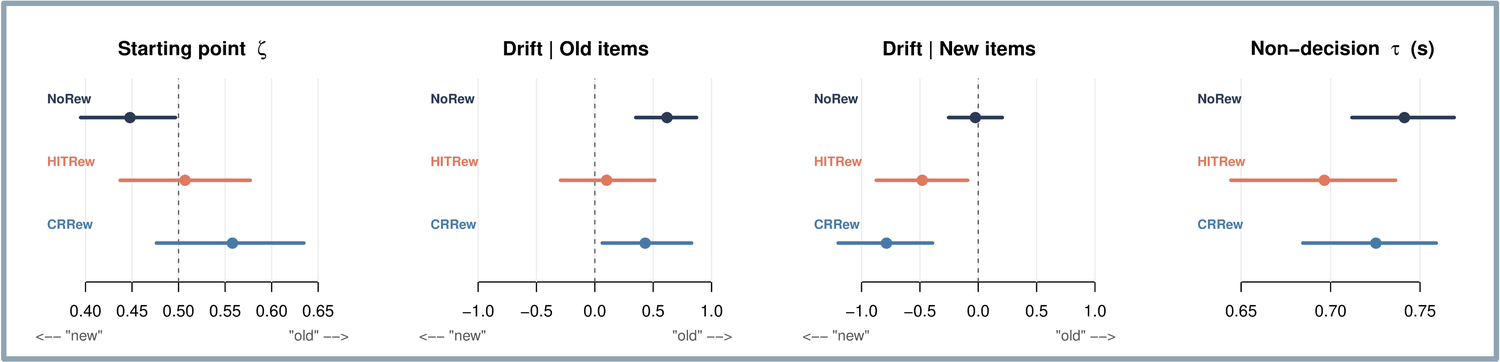
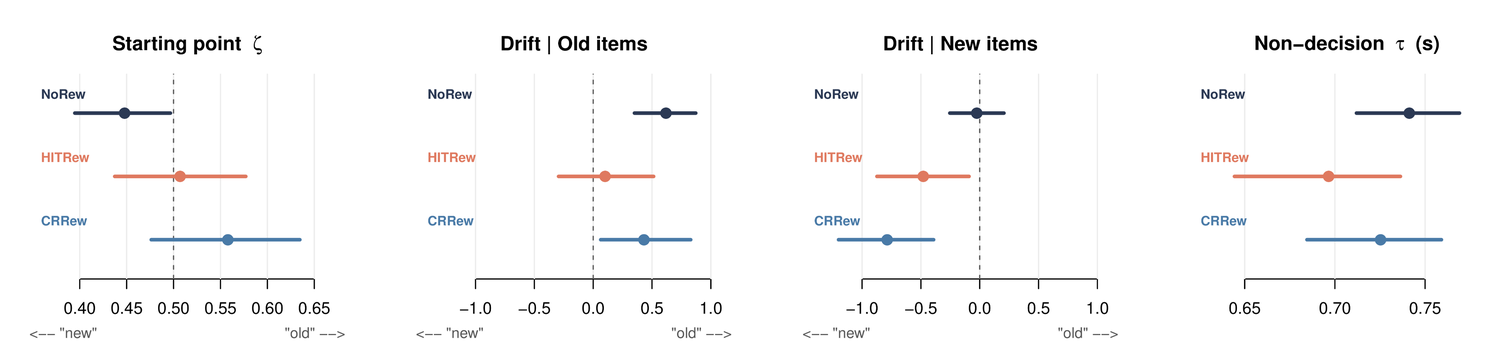
Reorder presentations, update DDM figure, link OSF materials
Lists conference presentations in reverse chronological order; replaces the
decision-parameter figure with the updated source version; adds the OSF
materials link to the RL-SSM project page; refreshes the CV.

diff --git a/research.html b/research.html
@@ -119,19 +119,19 @@
     <h2>Conference Presentations</h2>
     <div class="timeline">
       <div class="timeline-item">
-        <span class="timeline-date">Jul 2026</span>
-        <span class="timeline-text">
-          <span class="timeline-role">International Meeting of the Psychometric Society (IMPS)</span>
-          <span class="timeline-meta">Oral presentation &middot; <em>Development and Validation of a
-            Reinforcement Learning Sequential Sampling Model for Addictive Behavior</em></span>
-        </span>
-      </div>
-      <div class="timeline-item">
         <span class="timeline-date">Sep 2026</span>
         <span class="timeline-text">
           <span class="timeline-role">Korean Society for Computational Neuroscience (CBrain)</span>
           <span class="timeline-meta">Poster presentation &middot; <em>Joint Modeling of Single-Trial
             Behavior and fMRI Activity</em></span>
+        </span>
+      </div>
+      <div class="timeline-item">
+        <span class="timeline-date">Jul 2026</span>
+        <span class="timeline-text">
+          <span class="timeline-role">International Meeting of the Psychometric Society (IMPS)</span>
+          <span class="timeline-meta">Oral presentation &middot; <em>Development and Validation of a
+            Reinforcement Learning Sequential Sampling Model for Addictive Behavior</em></span>
         </span>
       </div>
       <div class="timeline-item">

diff --git a/research-rlssm.html b/research-rlssm.html
@@ -38,6 +38,7 @@
     <div><span class="meta-label">Authors</span> Eunwoo Kim &amp; Inhan Kang</div>
     <div><span class="meta-label">Status</span> Under review, <em>Psychonomic Bulletin &amp; Review</em></div>
     <div><span class="meta-label">Role</span> First author; M.S. thesis</div>
+    <div><span class="meta-label">Materials</span> <a href="https://osf.io/8mw2t/overview?view_only=c9266a08dab1456fbcead244c9f9568a" target="_blank" rel="noopener">OSF</a></div>
   </div>
 
   <section class="abstract">
